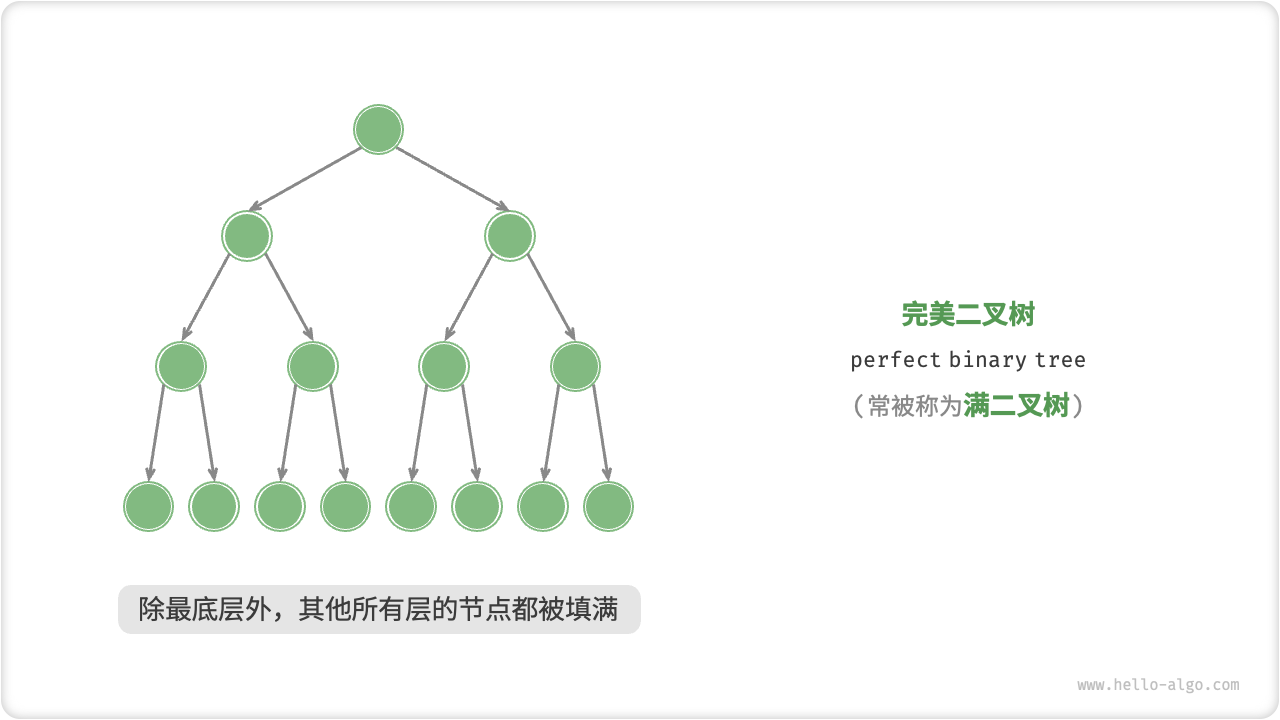
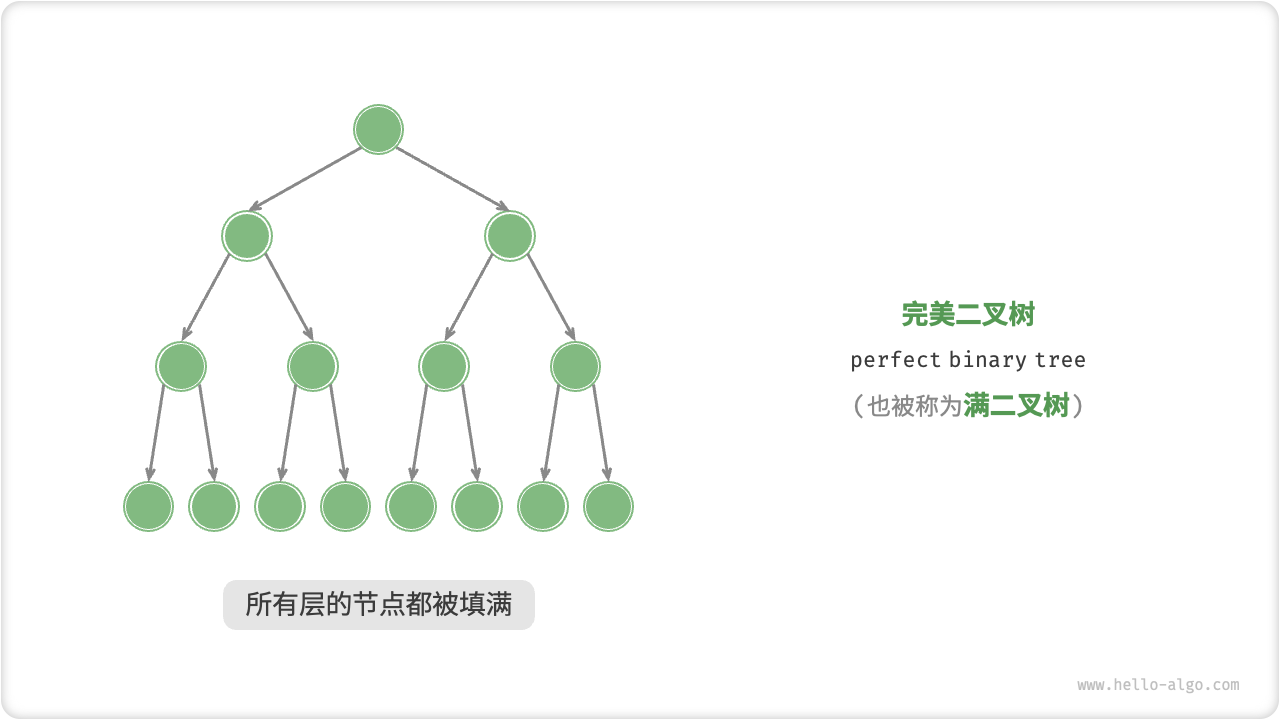
Several bugs fixes and improvments;

Changed region(s): [[0.0938, 0.7944, 0.5, 0.8861], [0.6562, 0.55, 0.7188, 0.5806]]

diff --git a/codes/javascript/modules/ListNode.js b/codes/javascript/modules/ListNode.js
@@ -8,8 +8,8 @@
  * Definition for a singly-linked list node
  */
 class ListNode {
-    val;
-    next;
+    val; // 节点值
+    next; // 指向下一节点的引用（指针）
     constructor(val, next) {
         this.val = val === undefined ? 0 : val;
         this.next = next === undefined ? null : next;

diff --git a/docs/chapter_tree/binary_tree.md b/docs/chapter_tree/binary_tree.md
@@ -87,10 +87,15 @@
 
     ```javascript title=""
     /* 二叉树节点类 */
-    function TreeNode(val, left, right) {
-        this.val = (val === undefined ? 0 : val); // 节点值
-        this.left = (left === undefined ? null : left); // 左子节点引用
-        this.right = (right === undefined ? null : right); // 右子节点引用
+    class TreeNode {
+        val; // 节点值
+        left; // 左子节点指针
+        right; // 右子节点指针
+        constructor(val, left, right) {
+            this.val = val === undefined ? 0 : val;
+            this.left = left === undefined ? null : left;
+            this.right = right === undefined ? null : right;
+        }
     }
     ```
 
@@ -550,7 +555,7 @@
 
 ### 完美二叉树
 
-「完美二叉树 perfect binary tree」除了最底层外，其余所有层的节点都被完全填满。在完美二叉树中，叶节点的度为 $0$ ，其余所有节点的度都为 $2$ ；若树高度为 $h$ ，则节点总数为 $2^{h+1} - 1$ ，呈现标准的指数级关系，反映了自然界中常见的细胞分裂现象。
+「完美二叉树 perfect binary tree」所有层的节点都被完全填满。在完美二叉树中，叶节点的度为 $0$ ，其余所有节点的度都为 $2$ ；若树高度为 $h$ ，则节点总数为 $2^{h+1} - 1$ ，呈现标准的指数级关系，反映了自然界中常见的细胞分裂现象。
 
 !!! tip
 
@@ -578,7 +583,7 @@
 
 ## 二叉树的退化
 
-当二叉树的每层节点都被填满时，达到“完美二叉树”；而当所有节点都偏向一侧时，二叉树退化为“链表”。
+下图展示了二叉树的理想与退化状态。当二叉树的每层节点都被填满时，达到“完美二叉树”；而当所有节点都偏向一侧时，二叉树退化为“链表”。
 
 - 完美二叉树是理想情况，可以充分发挥二叉树“分治”的优势。
 - 链表则是另一个极端，各项操作都变为线性操作，时间复杂度退化至 $O(n)$ 。

diff --git a/docs/index.md b/docs/index.md
@@ -93,13 +93,13 @@ hide:
 
 <h3 align="left"> 作者简介 </h3>
 
-靳宇栋 ([Krahets](https://leetcode.cn/u/jyd/))，大厂高级算法工程师，上海交通大学硕士。力扣（LeetCode）全网阅读量最高博主，其 LeetBook《图解算法数据结构》已被订阅 26 万本。
+靳宇栋 ([Krahets](https://leetcode.cn/u/jyd/))，大厂高级算法工程师，上海交通大学硕士。力扣（LeetCode）全网阅读量最高博主，发表的[《图解算法数据结构》](https://leetcode.cn/leetbook/detail/illustration-of-algorithm/)已被订阅 27 万本。
 
 ---
 
 <h2 align="center"> 致谢 </h2>
 
-本书在开源社区众多贡献者的共同努力下不断成长。感谢每一位投入时间与精力的撰稿人，是他们的无私奉献使这本书变得更好，他们是（按照 GitHub 自动生成的顺序）：
+本书在开源社区众多贡献者的共同努力下不断成长。感谢每一位投入时间与精力的撰稿人，是他们的无私奉献使这本书变得更好，他们是（按照 GitHub 自动生成的顺序排列）：
 
 <p align="center">
     <a href="https://github.com/krahets/hello-algo/graphs/contributors">

diff --git a/docs/chapter_data_structure/number_encoding.md b/docs/chapter_data_structure/number_encoding.md
@@ -4,7 +4,7 @@
 
     在本书中，标题带有的 * 符号的是选读章节。如果你时间有限或感到理解困难，可以先跳过，等学完必读章节后再单独攻克。
 
-## 原码、反码和补码
+## 整数编码
 
 在上一节的表格中我们发现，所有整数类型能够表示的负数都比正数多一个，例如 `byte` 的取值范围是 $[-128, 127]$ 。这个现象比较反直觉，它的内在原因涉及到原码、反码、补码的相关知识。
 
